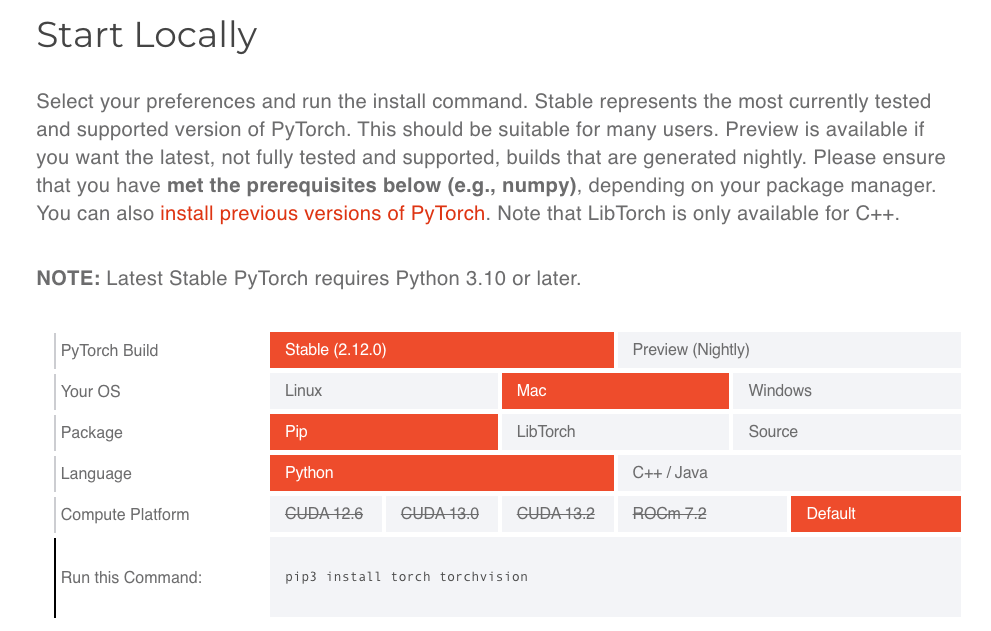
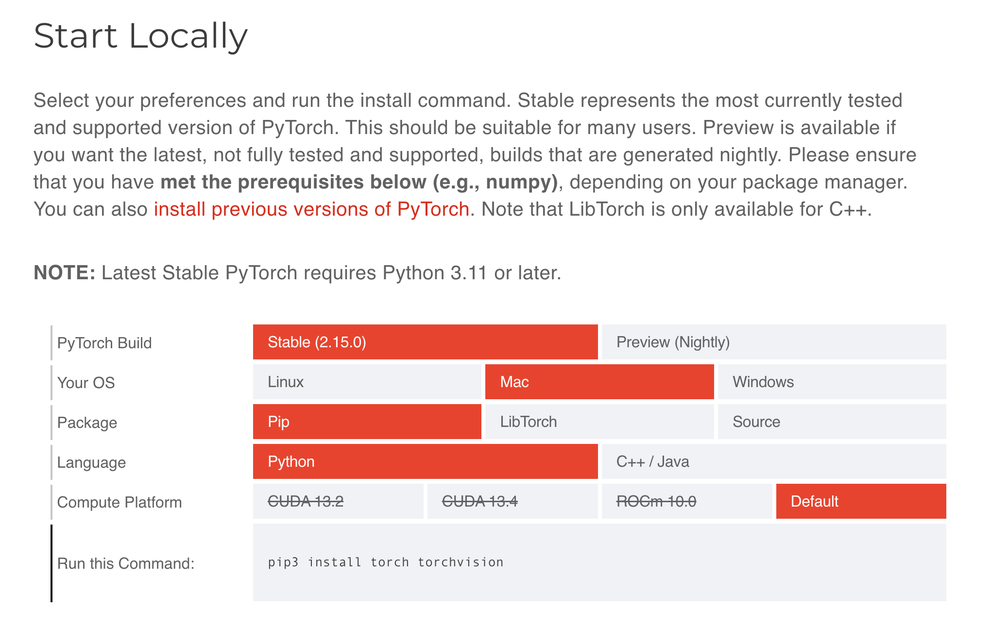
Refresh README: citation guidance, related research, badges, emoji headings
- Ask users to cite the journal version and obtain citations from PubMed
- Add two journal papers to Related Research
- Add OpenMAP series badge and emoji section headings
- Update uv Windows install command and PyTorch screenshot
- Use "M-series" instead of listing Apple Silicon chips
- Apply all changes to the Japanese and Chinese READMEs

diff --git a/README.md b/README.md
@@ -14,6 +14,7 @@
 [![Open In Colab](https://colab.research.google.com/assets/colab-badge.svg)](https://colab.research.google.com/drive/1fmfkxxZjChExnl5cHITYkNYgTu3MZ7Ql#scrollTo=xwZxyL5ewVNF)
 ![Python 3.12+](https://img.shields.io/badge/Python-3.12+-brightgreen.svg)
 [![HuggingFace Application](https://img.shields.io/badge/HuggingFace-Application-orange.svg)](https://huggingface.co/spaces/OishiLab/OpenMAP-T1)
+![OpenMAP series: T1](https://img.shields.io/badge/OpenMAP%20series-T1%20%7C%20T1c-blue.svg)
 
 [![Thank you — 50 GitHub stars](https://img.shields.io/badge/thank%20you!-50%20GitHub%20stars-D5312A?style=for-the-badge&logo=github&logoColor=white)](https://github.com/OishiLab/OpenMAP-T1)
 
@@ -30,18 +31,18 @@ Paper: https://onlinelibrary.wiley.com/doi/full/10.1002/hbm.70063<br>
 Cloud Application: https://huggingface.co/spaces/OishiLab/OpenMAP-T1<br>
 Published in **Human Brain Mapping**<br>
 
-## OpenMAP series
+## 🧠 OpenMAP series
 OpenMAP is a family of deep-learning models that parcellate the whole brain into 280 anatomical regions.
 
 - **OpenMAP-T1** and **OpenMAP-T1c** are both included in this repository and take a T1-weighted MRI. OpenMAP-T1 is aimed at detailed parcellation of the brain parenchyma, especially white matter. OpenMAP-T1c is trained on labels registered from T2-weighted MRI and pays more attention to CSF around the cortical sulci, Sylvian fissures, and subarachnoid cisterns.
 - For finer CSF segmentation from a T2-weighted MRI, use **[OpenMAP-T2](https://github.com/OishiLab/OpenMAP-T2)**.
 
-## Requirements
+## 📋 Requirements
 - **Python 3.12 or later** (required by scipy 1.18). The Docker image uses Python 3.14.8, the newest release that still has PyTorch wheels.
 - **PyTorch 2.14 or later** (installed automatically with `uv sync`; install separately when using pip)
 - Other pinned libraries: nibabel 5.4.2, pandas 3.0.6, scipy 1.18.1, SimpleITK 2.5.6, tqdm 4.70.1
 
-# Installation
+# 📦 Installation
 **OpenMAP-T1 parcellates the whole brain into 280 anatomical regions based on JHU-atlas in 50 (sec/case).**
 
 [![Open In Colab](https://colab.research.google.com/assets/colab-badge.svg)](https://colab.research.google.com/drive/1fmfkxxZjChExnl5cHITYkNYgTu3MZ7Ql#scrollTo=xwZxyL5ewVNF)
@@ -60,7 +61,7 @@ OpenMAP is a family of deep-learning models that parcellate the whole brain into
 
    **Windows:**
    ```powershell
-   powershell -c "irm https://astral.sh/uv/install.ps1 | iex"
+   powershell -ExecutionPolicy ByPass -c "irm https://astral.sh/uv/install.ps1 | iex"
    ```
 
    Or using pip:
@@ -112,7 +113,7 @@ pip install -r requirements.txt
 
 5. You can run OpenMAP-T1!
 
-# Docker Installation Instruction
+# 🐳 Docker Installation Instruction
 The Docker image is based on `python:3.14.8-slim` and installs dependencies from `requirements_for_docker.txt`, which is exported from `uv.lock`. To regenerate it after dependency updates, run:
 ```
 uv export --no-hashes --no-emit-project --no-dev -o requirements_for_docker.txt
@@ -156,13 +157,13 @@ These are the command-line arguments passed to the application running inside th
 
   Replace `INPUT_FOLDER`, `OUTPUT_FOLDER`, and `MODEL_FOLDER` with the appropriate directory names or paths that exist within the mounted `/app` directory (for example, `input`, `output`, and `model`).
 
-# How to download the pretrained model.
+# ⬇ How to download the pretrained model.
 You can get the pretrained model from this link.
 [Link of pretrained model](https://forms.office.com/Pages/ResponsePage.aspx?id=OPSkn-axO0eAP4b4rt8N7Iz6VabmlEBIhG4j3FiMk75UQUxBMkVPTzlIQTQ1UEZJSFY1NURDNzRERC4u)
 
 ![image](media/Download_pretrained.png)
 
-# All Commands
+# 💻 All Commands
 Using OpenMAP-T1 is straightforward. You can use it in a terminal on Linux, macOS, or Windows. We provide CPU as well as GPU support. Running on GPU is a lot faster though and should always be preferred. Here is a minimal example of how you can use OpenMAP-T1.
 
 ## Basic Usage
@@ -254,7 +255,7 @@ python3 src/parcellation.py -i INPUT_FOLDER -o OUTPUT_FOLDER -m MODEL_FOLDER --o
 docker run --rm -it -v "$(pwd):/app" openmap-t1 -i INPUT_FOLDER -o OUTPUT_FOLDER -m MODEL_FOLDER --only-skull-stripping
 ```
 
-## Using GPU
+## ⚡ Using GPU
 OpenMAP-T1 selects CUDA automatically when a GPU is available (`Using device: cuda` at startup). GPU execution is much faster than CPU and is recommended whenever possible. Each run uses a single GPU.
 
 On **Linux or Windows (WSL2) with an NVIDIA GPU**, install the [NVIDIA Container Toolkit](https://docs.nvidia.com/datacenter/cloud-native/container-toolkit/install-guide.html) before using GPU inside Docker. Without `--gpus`, the container typically falls back to CPU even on a GPU host.
@@ -357,13 +358,13 @@ All runtime console messages (stdout, stderr, and progress logs) are automatical
 
 If any case fails, is skipped by a short-circuit flag, or yields a clearly abnormal total brain volume (default: &lt; 10,000 mm³ on the 1 mm isotropic grid), it is listed in `failed_cases.csv` at the root of `OUTPUT_FOLDER`. Columns: `case_id`, `input_path`, `status` (`failed`, `skipped`, or `low_volume`), `reason`, and `total_brain_volume_mm3`.
 
-## Level Metadata (JHU-Atlas)
+## 🗺 Level Metadata (JHU-Atlas)
 The [`level/`](level/) folder contains lookup tables and hierarchy definitions related to the JHU-atlas-based parcellation, organized into `level/OpenMAP-T1/` (standard OpenMAP-T1) and `level/OpenMAP-T1c/` (OpenMAP-T1c with internal/external sulcal CSF and subarachnoid cistern definitions).
 
 - `level/OpenMAP-T1/OpenMAP-T1_multilevel_lookup_table_dictionary.csv` and `level/OpenMAP-T1c/OpenMAP-T1c_multilevel_lookup_table_dictionary.csv` include the official ROI names for **Type1 Level5** and their corresponding multilevel mappings.
 - Type1 text dictionaries are named `Type1Level1.txt` to `Type1Level5.txt` inside each subfolder (`level/OpenMAP-T1/` and `level/OpenMAP-T1c/`).
 
-# Supplementary information
+# 📎 Supplementary information
 ![supplementary_level](media/Multilevel.png)
 The OpenMAP-T1 parcellates the entire brain into five hierarchical structural levels, with the coarsest level comprising eight structures and the finest level comprising 280 structures.
 
@@ -372,7 +373,7 @@ The OpenMAP-T1 parcellates the entire brain into five hierarchical structural le
 *  For additional visualization and detailed analysis, [ROIEditor](https://www.mristudio.org/installation.html) is also an excellent tool. ROIEditor is a free, open-source application specifically designed for creating and editing regions of interest (ROIs) in medical imaging. Its user-friendly interface facilitates precise segmentation and fine-tuning, making it ideal for isolating and analyzing specific regions on parcellation maps generated by OpenMAP-T1.
 
 
-# FAQ
+# ❓ FAQ
 * **What are the contributions of OpenMAP-T1?**<br>
 For GPUs, OpenMAP-T1 processes T1-weighted images in just 1–2 minutes. Even on CPUs, processing completes in roughly 30 minutes. Moreover, OpenMAP-T1 is highly robust against variations in imaging environments and brain atrophy.
 
@@ -386,7 +387,7 @@ Although not included in the paper, our private tests indicate that OpenMAP-T1 c
 We ran all our experiments on NVIDIA RTX3090 GPUs with 24 GB memory. For inference you will need less, but since inference is implemented by exploiting the fully convolutional nature of CNNs the amount of memory required depends on your image. A typical image should run with less than 4 GB of GPU memory consumption. If you run into out of memory problems please check the following: 1) Make sure the voxel spacing of your data is correct and 2) Ensure your MRI image only contains the head region.
 
 * **Can OpenMAP-T1 use Apple Silicon (MPS) on MacBook?**<br>
-Yes. OpenMAP-T1 supports MPS (Metal Performance Shaders) on Apple Silicon Macs (M1/M2/M3/M4). When running on a MacBook with Apple Silicon, it automatically uses MPS for GPU acceleration if available, which is faster than CPU-only execution.
+Yes. OpenMAP-T1 supports MPS (Metal Performance Shaders) on Apple Silicon Macs (M-series chips). When running on a MacBook with Apple Silicon, it automatically uses MPS for GPU acceleration if available, which is faster than CPU-only execution.
 
 * **What is the difference between OpenMAP-T1 and OpenMAP-T1c?**<br>
 OpenMAP-T1 is designed for detailed parcellation of the brain parenchyma, with a particular focus on white matter structures. In contrast, OpenMAP-T1c is trained using labels registered from T2-weighted MRI, placing greater emphasis on the segmentation of perivascular and subarachnoid CSF spaces (such as cortical sulci, Sylvian fissures, and subarachnoid cisterns). If you want even more detailed and accurate CSF segmentation (when T2-weighted MRI is available), we recommend using [OpenMAP-T2](https://github.com/OishiLab/OpenMAP-T2).<br>
@@ -410,8 +411,11 @@ At the end of a batch run, OpenMAP-T1 writes `failed_cases.csv` under `OUTPUT_FO
 * **Will you provide the training code as well?**<br>
 No. The training code is tightly wound around the data which we cannot make public.
 
-# Citation
-```
+# 📝 Citation
+If you use OpenMAP-T1, please cite the published journal article (Human Brain Mapping, 2024), not the medRxiv preprint. Please obtain the citation from **[PubMed](https://pubmed.ncbi.nlm.nih.gov/39523990/)** so that it matches the journal version. PubMed's **Cite** button provides the citation in standard styles such as APA, MLA, AMA, and NLM, so please use the one your journal or institution requires. A BibTeX entry is also provided below.
+
+**BibTeX:**
+```bibtex
 @article{nishimaki2024openmap,
   author={Nishimaki, Kei and Onda, Kengo and Ikuta, Kumpei and Chotiyanonta, Jill and Uchida, Yuto and Mori, Susumu and Iyatomi, Hitoshi and Oishi, Kenichi and Alzheimer's Disease Neuroimaging Initiative and {Australian Imaging Biomarkers and Lifestyle Flagship Study of Ageing}},
   title={OpenMAP-T1: A Rapid Deep-Learning Approach to Parcellate 280 Anatomical Regions to Cover the Whole Brain},
@@ -429,7 +433,7 @@ No. The training code is tightly wound around the data which we cannot make publ
 }
 ```
 
-# Related Research
+# 📚 Related Research
 The following studies have utilized OpenMAP-T1 for advanced segmentation and analysis in T1-weighted MRI. 
 * **[Data-driven schizophrenia subtyping via brain atrophy trajectories and functional connectivity](https://www.nature.com/articles/s41398-026-03968-w)**  
    *Authors:* Daisuke Yoshimaru, Kazuya Ouchi, Shuhei Shibukawa, Masakazu Ozawa, Motoki Hirabayashi, Ami Yuzawa, Tomokazu Tsurugizawa, Kenichi Oishi, Hirotaka James Okano;  
@@ -443,3 +447,9 @@ The following studies have utilized OpenMAP-T1 for advanced segmentation and ana
 * **[A Neural Network Approach to Identify Left–Right Orientation of Anatomical Brain MRI](https://pmc.ncbi.nlm.nih.gov/articles/PMC11808181/)**  
    *Authors:* Kei Nishimaki; Hitoshi Iyatomi, PhD; Kenichi Oishi, MD, PhD;  
    *Journal:* Brain and Behavior
+* **[Preserved Limbic White Matter Predicts Favorable 2-Year Outcomes in Neonatal Hypoxic-Ischemic Encephalopathy](https://doi.org/10.1002/cns3.70047)**  
+   *Authors:* Xingyu Chen, Shuhei Tomoshige, Ria Wright, Vera J Burton, Gwendolyn Gerner, Nathanael Kuo, Jill S Chotiyanonta, Raul Chavez-Valdez, Ernest M Graham, Frances J Northington, Kenichi Oishi;  
+   *Journal:* Annals of the Child Neurology Society
+* **[Utilizing routinely acquired clinical neuroimaging and electronic health record data to advance precision medicine in dementia care](https://doi.org/10.1080/09540261.2026.2714142)**  
+   *Authors:* Kenichi Oishi, Roy Adams, Milap A Nowrangi, Peter P Zandi, Constantine G Lyketsos;  
+   *Journal:* International Review of Psychiatry
